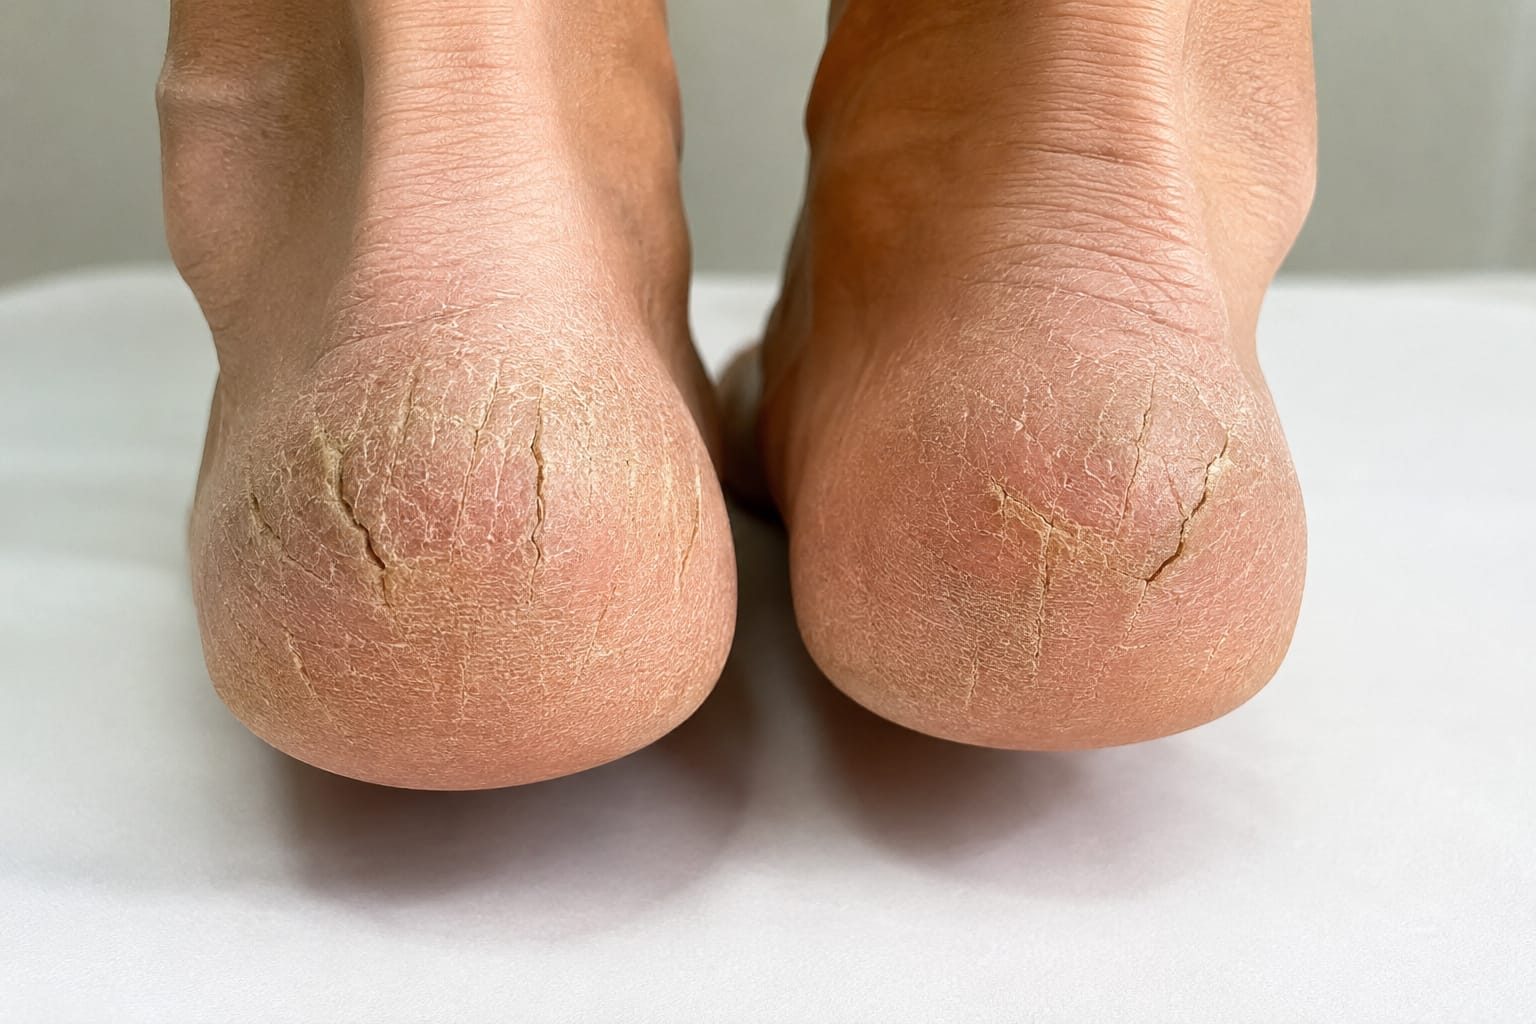
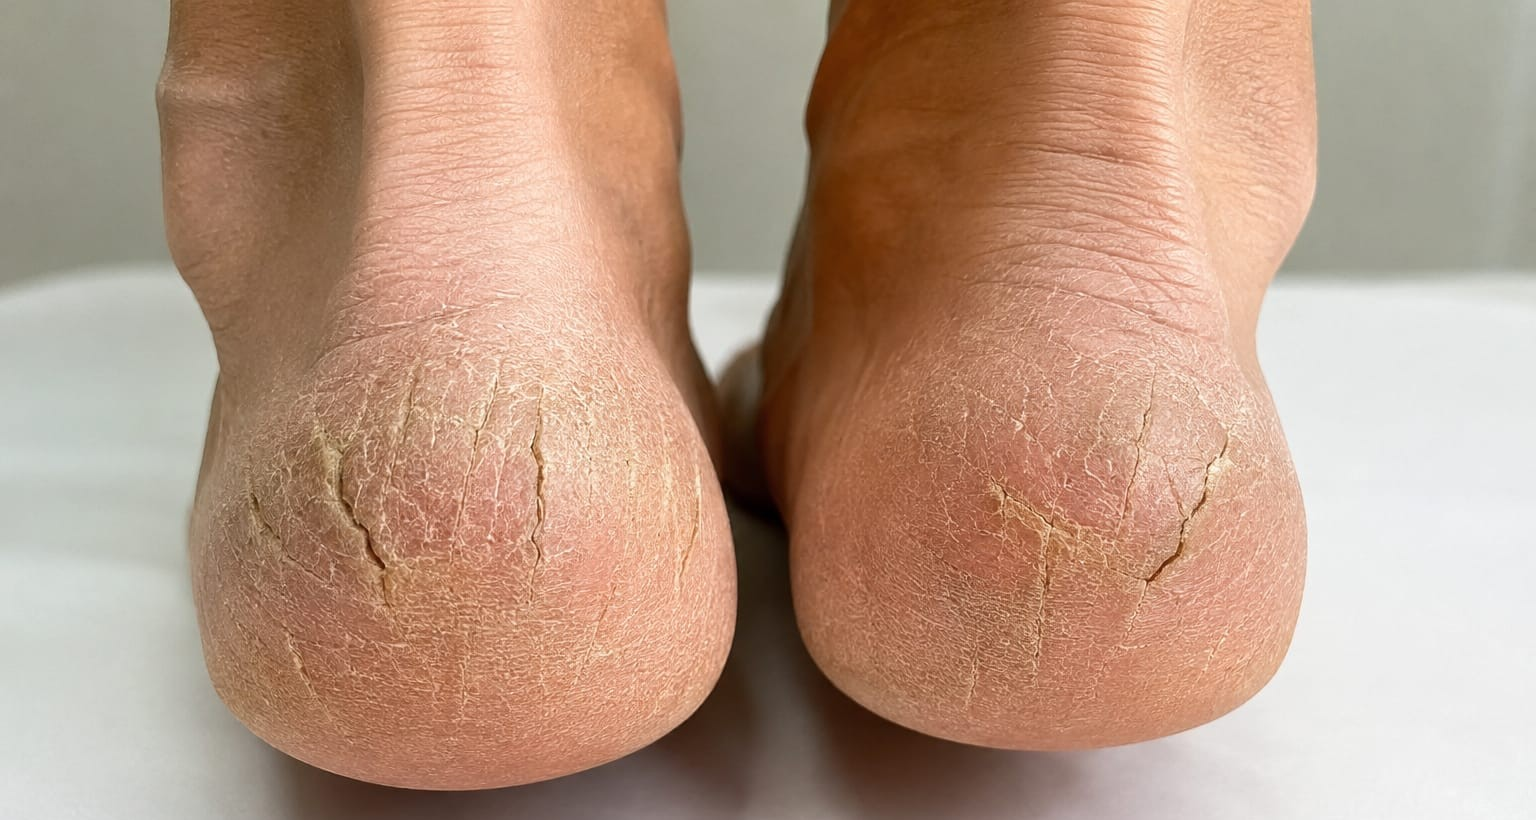
Corrige flex-direction nos cards de foto dupla (estava empilhando ao inves de lado a lado); recorta chao branco das fotos de calcanhar

diff --git a/index.html b/index.html
@@ -381,14 +381,14 @@
         <p class="section-sub">Resultado real com autorização da paciente (já coberto pela ficha de anamnese), sem mostrar rosto. Resultados individuais podem variar.</p>
       </div>
       <div class="photo-grid-3">
-        <div class="frame" style="padding: 0; overflow: hidden; display: flex;">
+        <div class="frame" style="padding: 0; overflow: hidden; display: flex; flex-direction: row;">
           <img src="caso-fungo-micose-antes.jpeg" alt="Unha com fungo, antes do tratamento" class="real-photo" style="width: 50%;">
           <img src="caso-fungo-micose.jpeg" alt="Unha após tratamento de fungo" class="real-photo" style="width: 50%;">
         </div>
         <div class="frame" style="padding: 0; overflow: hidden;">
           <img src="caso-calo.jpeg" alt="Caso real de calo tratado, antes e depois" class="real-photo">
         </div>
-        <div class="frame" style="padding: 0; overflow: hidden; display: flex;">
+        <div class="frame" style="padding: 0; overflow: hidden; display: flex; flex-direction: row;">
           <img src="caso-calcanhar-antes.jpeg" alt="Calcanhar rachado, antes do tratamento" class="real-photo" style="width: 50%;">
           <img src="caso-calcanhar-depois.jpeg" alt="Calcanhar após o tratamento" class="real-photo" style="width: 50%;">
         </div>